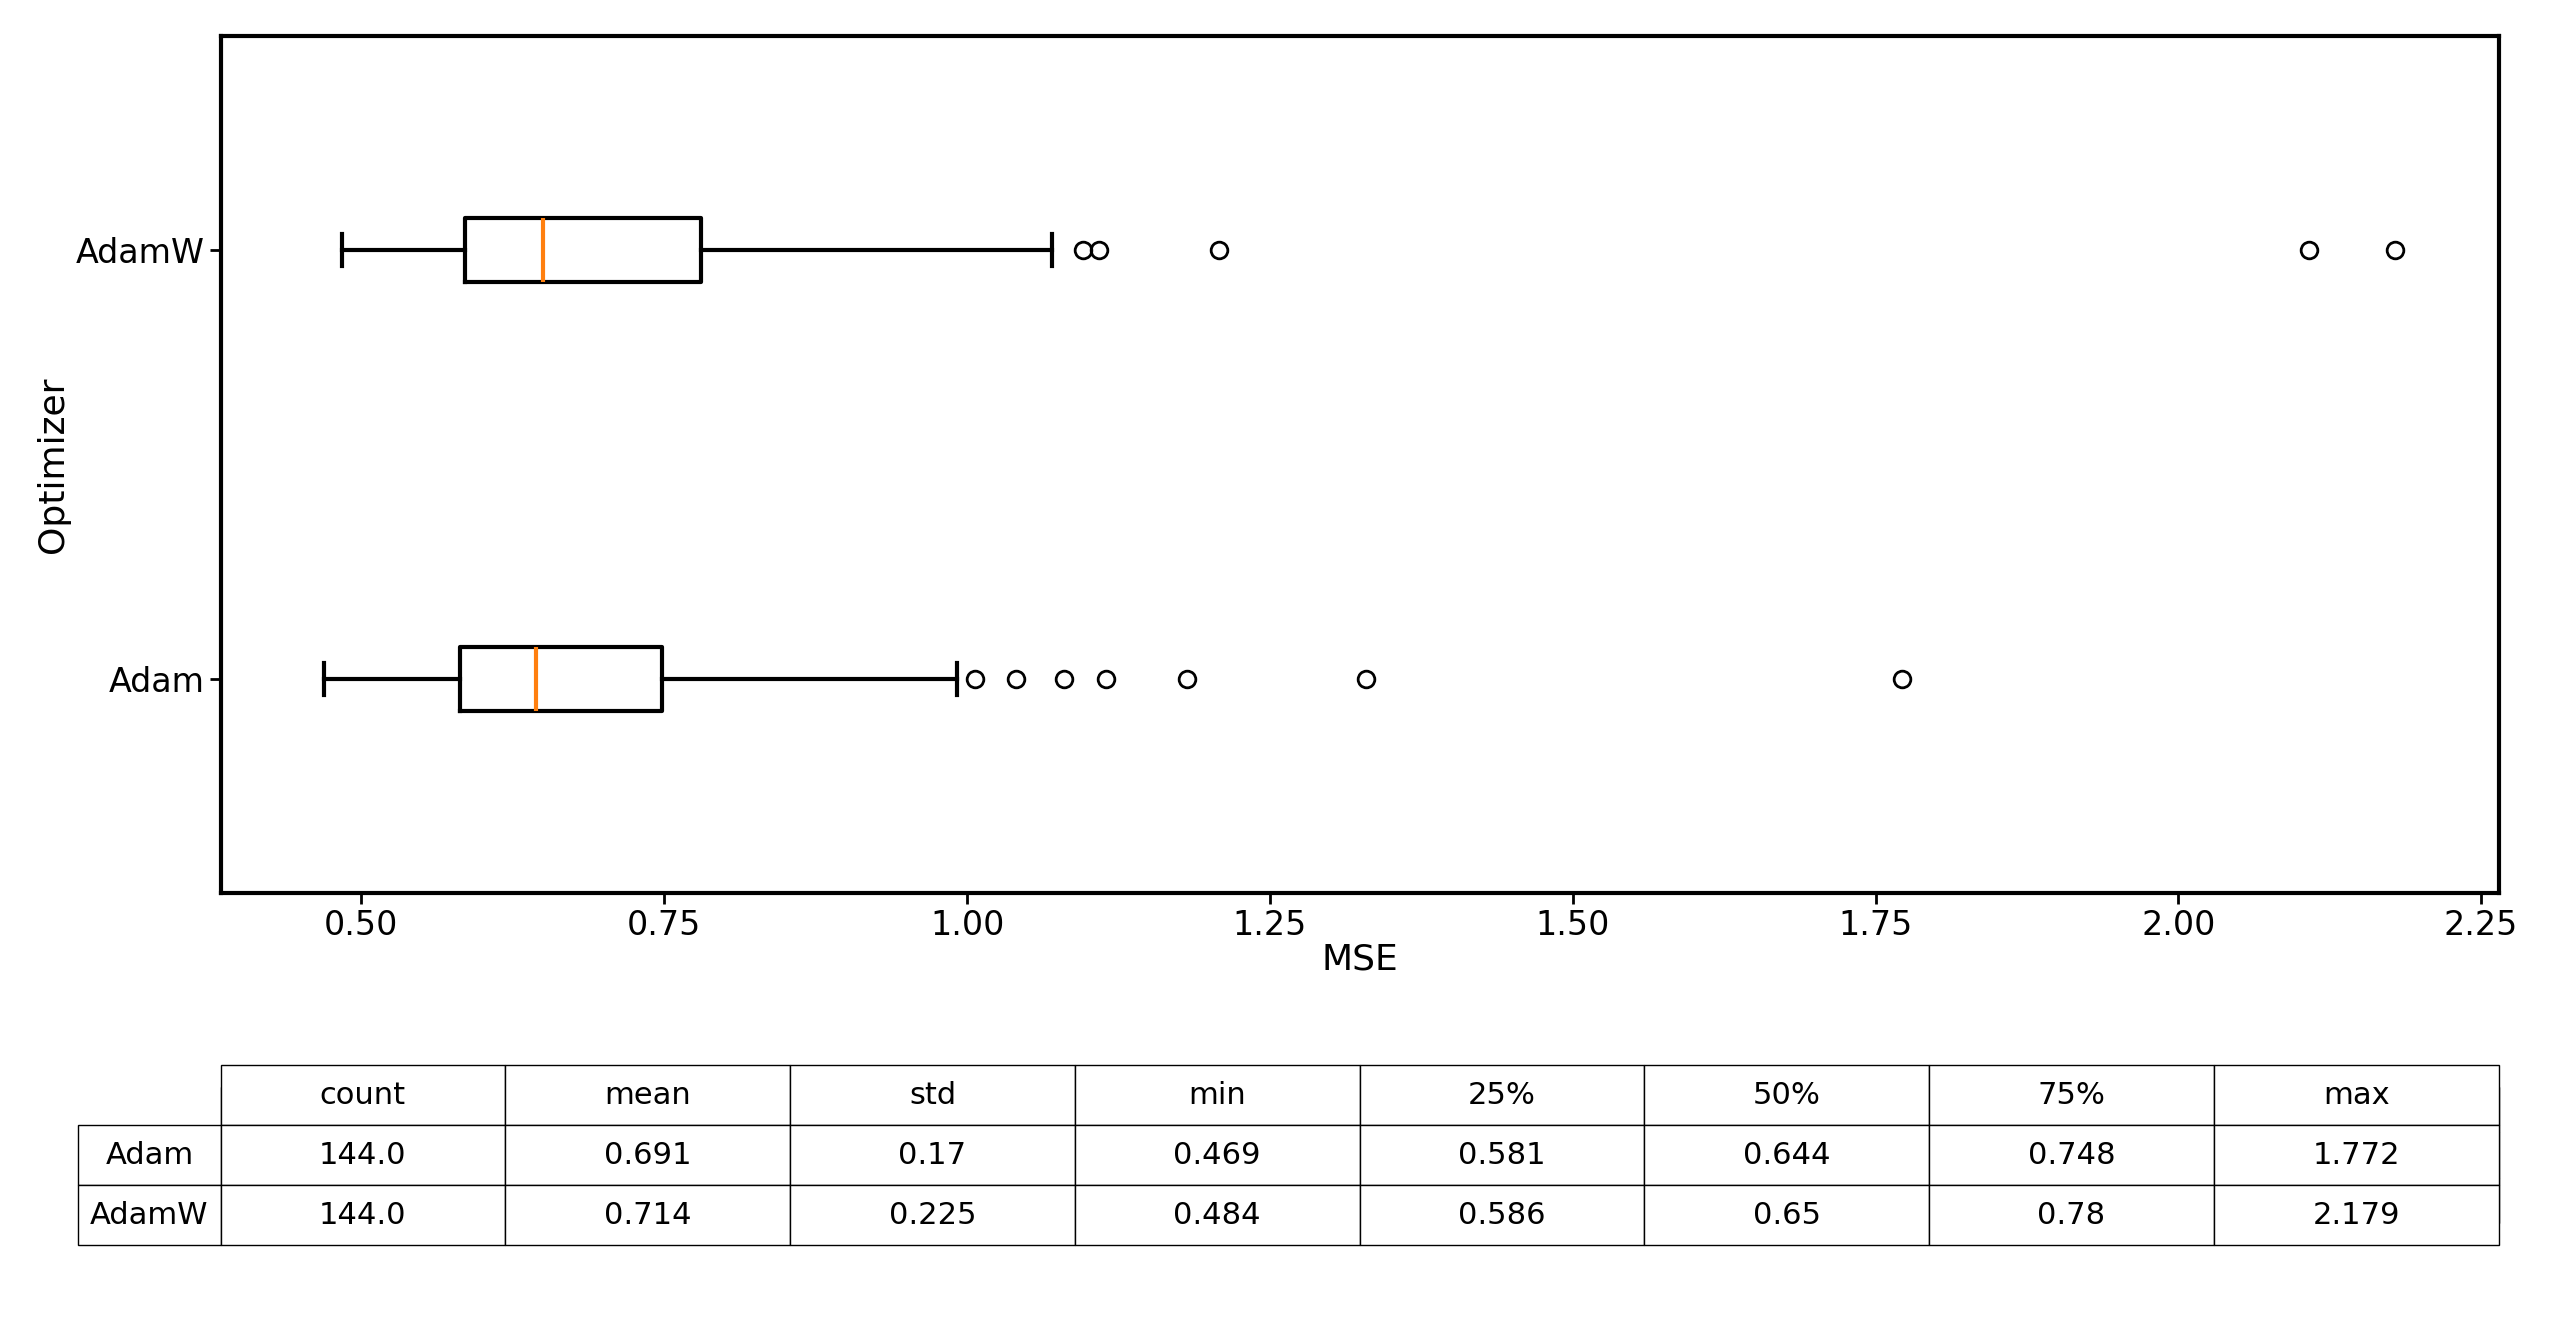
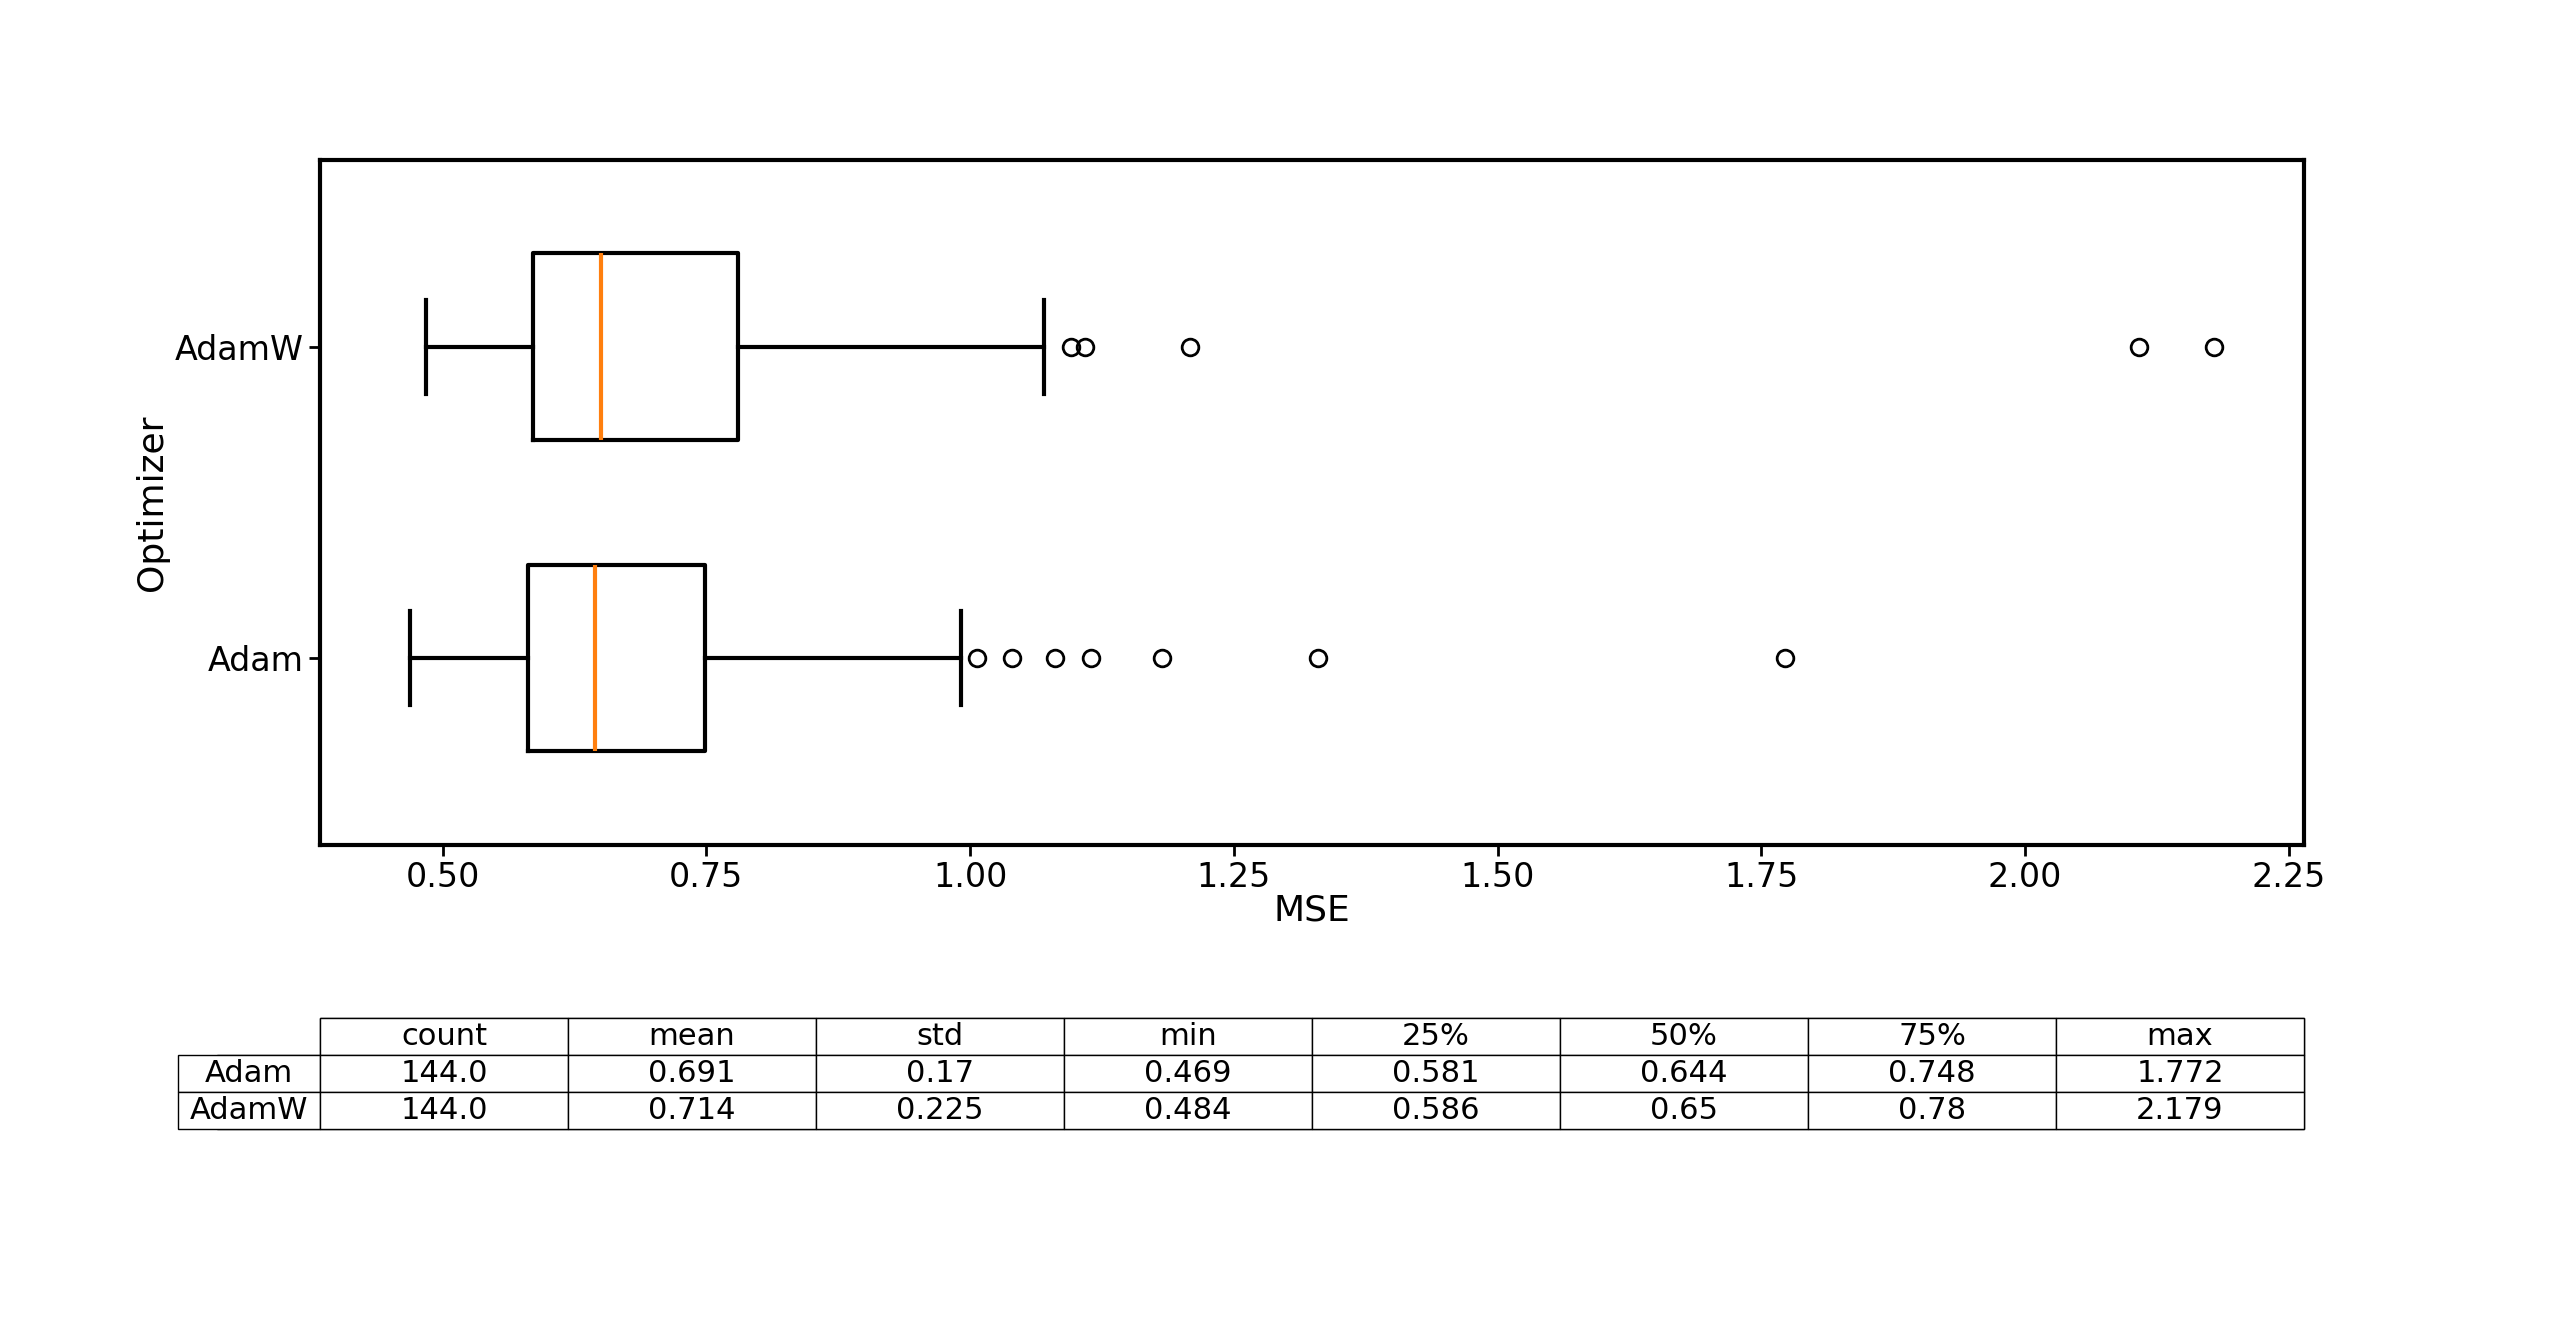
Fixed optimizer boxplot

diff --git a/boxplot_optimizer.py b/boxplot_optimizer.py
@@ -40,11 +40,15 @@ summary = (pd.DataFrame({"Adam":  pd.Series(adam).describe(),
            .loc[['count','mean','std','min','25%','50%','75%','max']]
            .T.round(3))
 
+gap = .25                          # distance you want between boxes
+pos = [1, 1+gap]          # 1 → 1.35 → 1.70
+
 fig, (ax_box, ax_tbl) = plt.subplots(2, 1, figsize=(8, 6),       
-                                     gridspec_kw={'height_ratios':[3, 1]}) 
+                                     gridspec_kw={'height_ratios':[3,1], 'hspace':0.25}) 
 
 ax_box.boxplot([adam, adamW],                  
                vert=False,
+               positions=pos,
                labels=["Adam", "AdamW"],
                boxprops=dict(linewidth=3),
                whiskerprops=dict(linewidth=3),
@@ -55,9 +59,12 @@ ax_box.boxplot([adam, adamW],
                                markeredgecolor='black',
                                markeredgewidth=2))
 
+
 ax_box.set_xlabel("MSE", labelpad=0)                       
 ax_box.set_ylabel("Optimizer")                                   
 ax_box.tick_params(axis='both', which='both', width=2, length=8) 
+
+ax_box.set_ylim(pos[0]-gap*0.6, pos[-1]+gap*0.6)
 
 ax_tbl.axis('off')                                       
 ax_tbl.table(cellText=summary.values,
